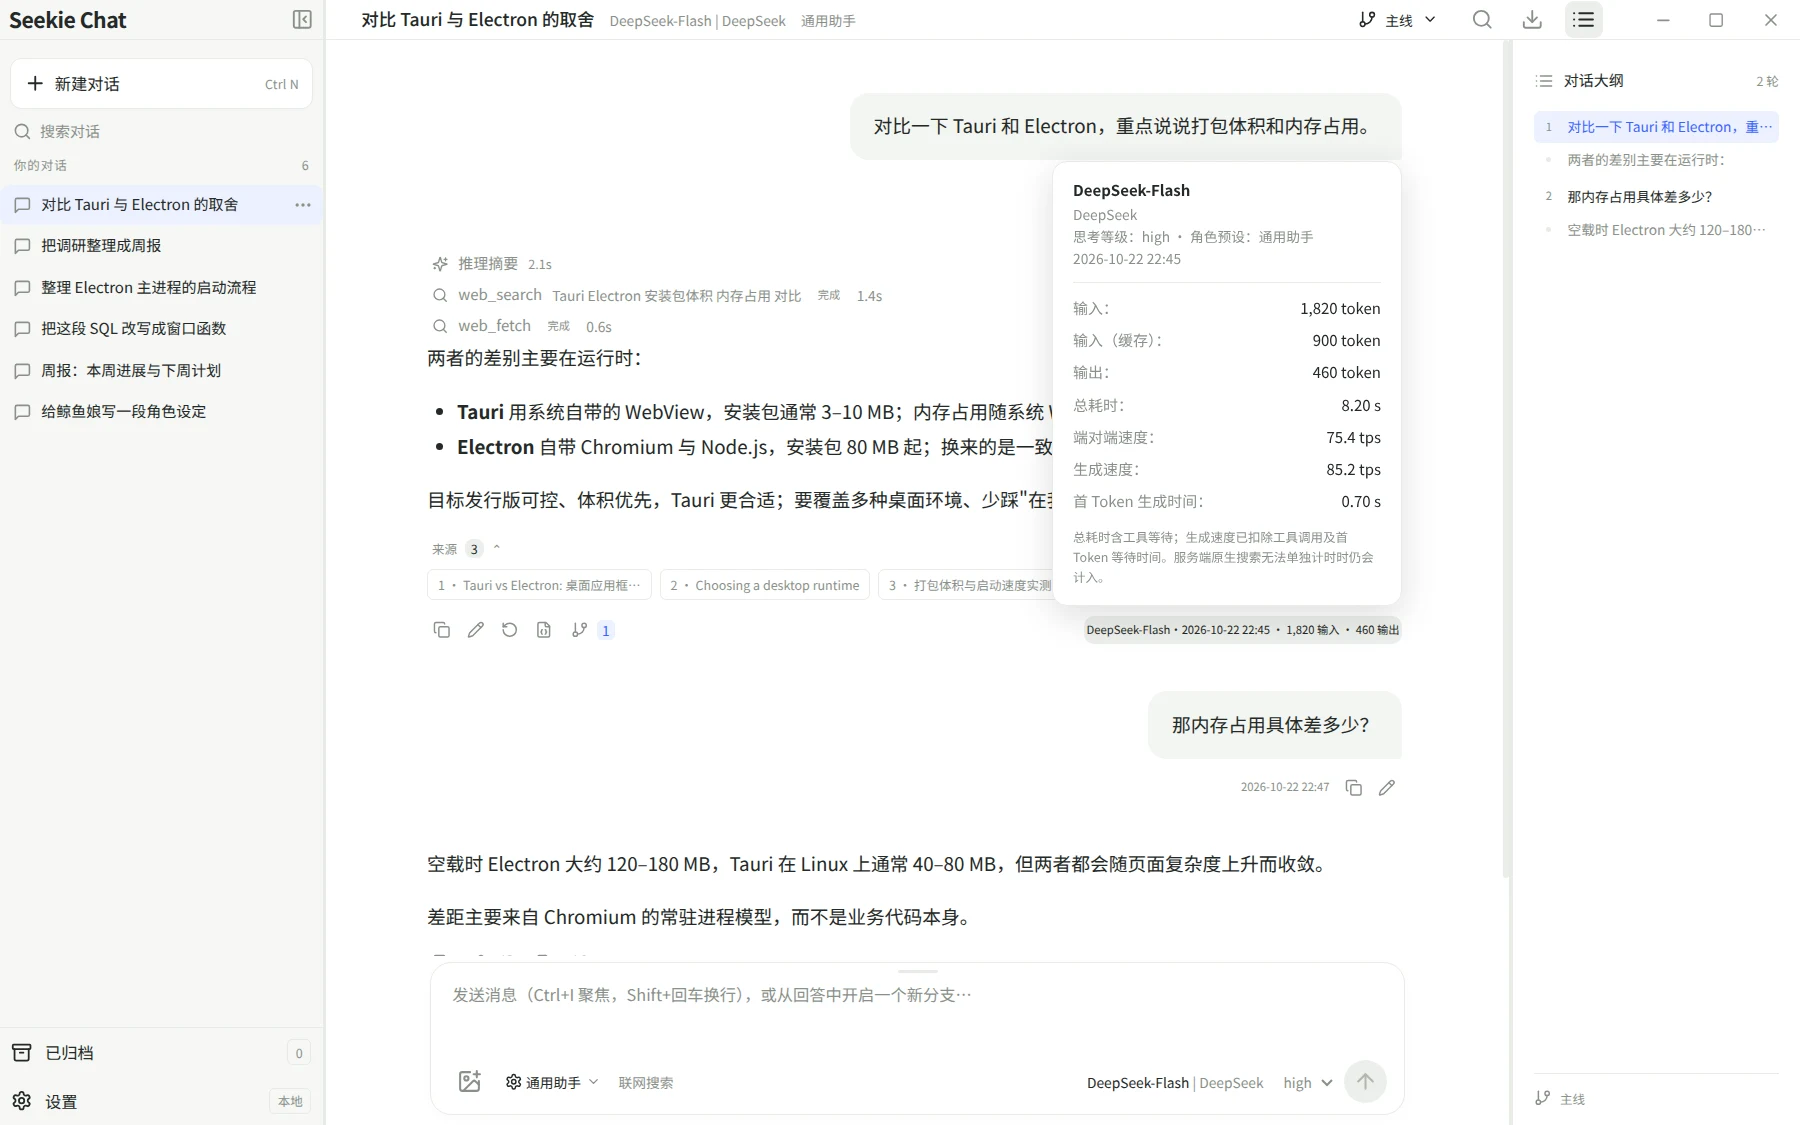
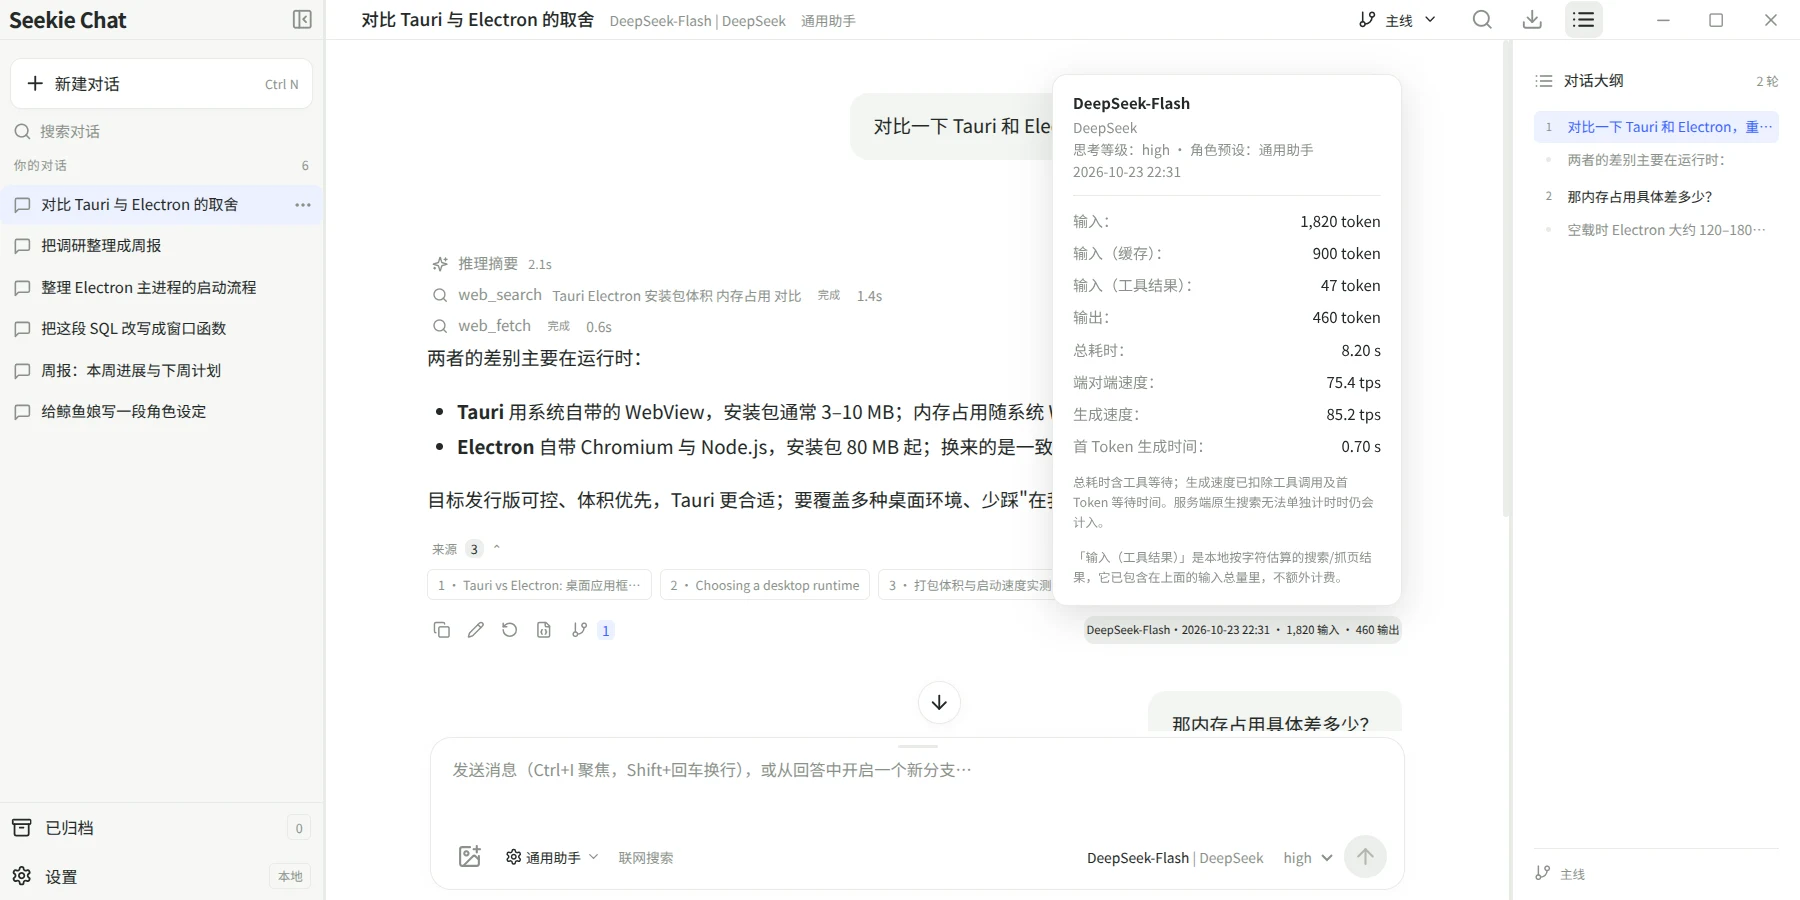
更新界面截图并新增会话选项浮窗图
- 上一批改动加了用量浮窗的"输入（工具结果）"行和分支菜单的树形缩进，
  旧截图已经和界面对不上，重跑 node scripts/screenshots.mjs 全部重生成。
- 会话选项浮窗是本程序的特色：温度/top_p、联网与读取网页、角色预设、
  压缩历史都按分支各自保存，值得单独一张图。脚本里在回答右键菜单之后
  点开 .config-popover 拍一张，沿用 Composer 自带的 Escape 关闭收尾。
- 顺带修模拟数据：sideBranch.parentBranchId 之前写 null，可真实的 fork()
  会把父分支指为主线，两个都是根的话，菜单里就看不出树形缩进了。
- 取舍：模拟主会话只有两轮，"压缩较早历史"按钮呈 disabled（需 ≥3 轮），
  不为截图往模拟数据里硬加一轮——图里如实反映这个门槛。
- docs/screenshots.md 同步：新增"会话选项"章节，"用量详情"补工具结果行，
  "分支"补缩进说明。
- 验证：npm run check 通过；逐张核对了会话选项、用量详情、分支三张图，
  其余为模拟数据时间戳刷新。

diff --git a/docs/screenshots.md b/docs/screenshots.md
@@ -22,7 +22,7 @@
 
 ## 分支
 
-从任意一条回答开分支。每条分支有自己的模型、提示词、搜索与思考配置，历史互不干扰，左侧仍然只有一个会话条目。
+从任意一条回答开分支。每条分支有自己的模型、提示词、搜索与思考配置，历史互不干扰，左侧仍然只有一个会话条目；菜单里的分支按父子关系缩进，能看出每条分支是从哪儿分出来的。
 
 ![分支](screenshots/branches.webp)
 
@@ -40,7 +40,7 @@
 
 ## 用量详情
 
-回答右侧那串"模型 · 时间 · 输入 · 输出"点开就是完整指标：模型与连接、思考等级与角色预设、输入与缓存命中、输出、总耗时、端对端速度、生成速度，以及首 Token 等待时间。
+回答右侧那串"模型 · 时间 · 输入 · 输出"点开就是完整指标：模型与连接、思考等级与角色预设、输入与缓存命中、输入（工具结果，按字符本地估算、已含在输入总量里）、输出、总耗时、端对端速度、生成速度，以及首 Token 等待时间。
 
 ![用量详情](screenshots/answer-meta.webp)
 
@@ -49,6 +49,12 @@
 一条回答上的操作都收在右键里：三种格式的复制、编辑为新版本、重新生成并保留旧回答、查看请求详情、从此回答创建分支。选中文字时，菜单最前面还会多出"复制选中（纯文本 / 富文本）"两项。
 
 ![回答右键菜单](screenshots/answer-menu.webp)
+
+## 会话选项
+
+输入框左下角那个写着角色名的按钮，打开当前分支的设置浮窗：温度与 top_p、联网搜索与读取网页、系统提示词与角色预设，以及"压缩较早历史"的入口。设置按分支各自保存——同一个会话里的两条分支，可以一条联网、一条不联网。
+
+![会话选项](screenshots/session-options.webp)
 
 ## 多段正文编辑
 
